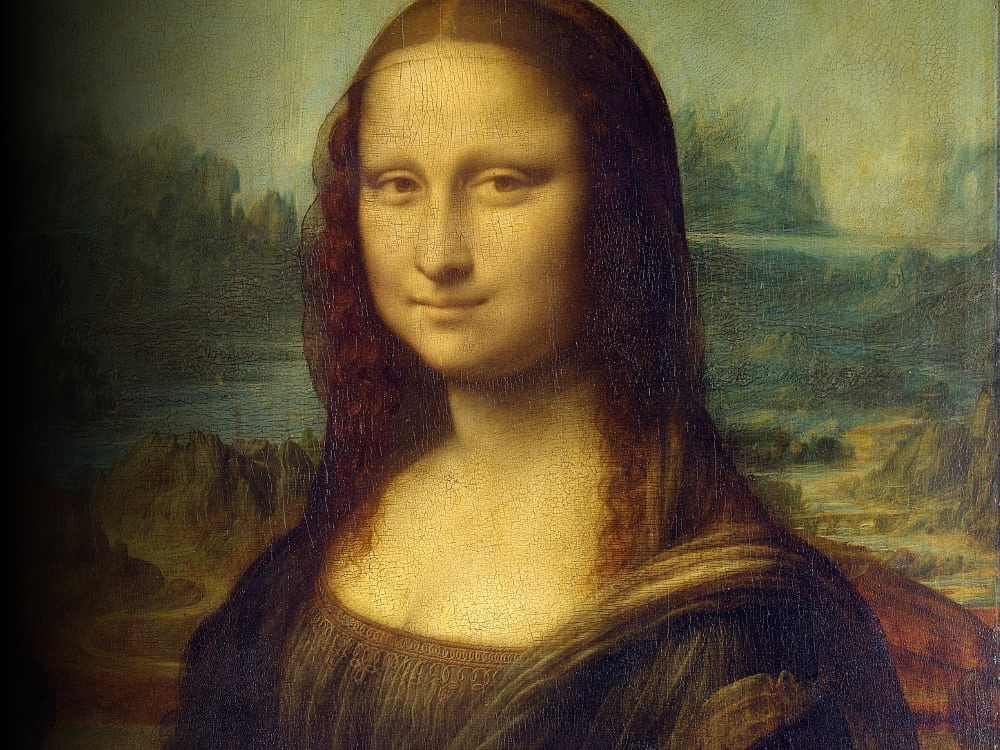
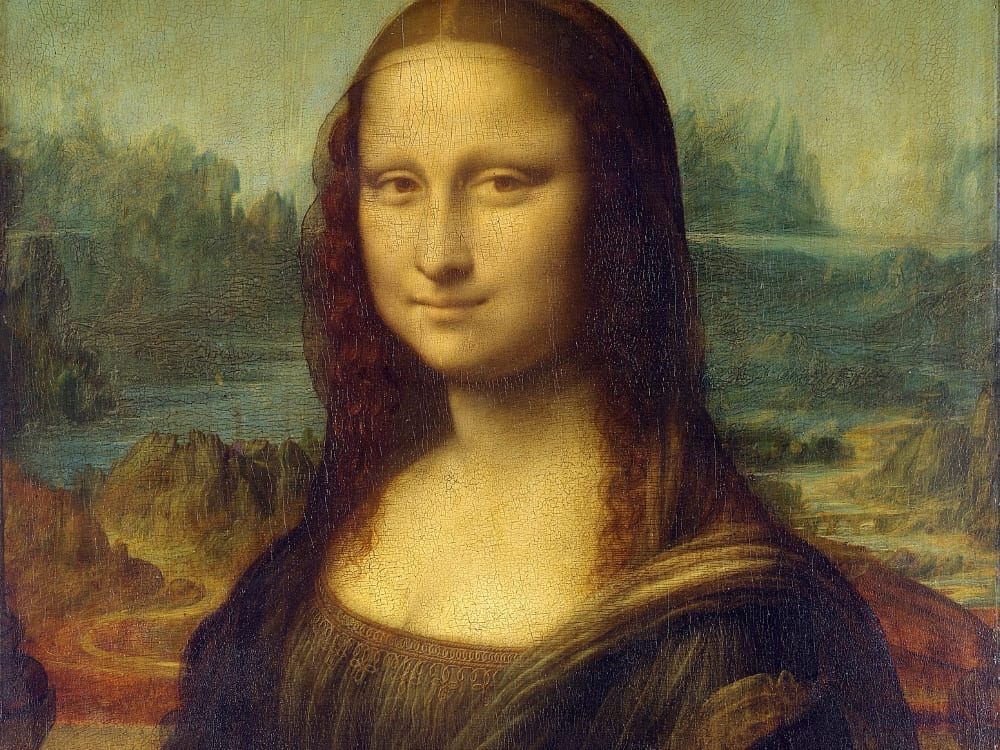
fix: some fixes

Changed region(s): [[0.0, 0.0, 0.279, 1.0]]

diff --git a/src/scss/sections/_hero.scss b/src/scss/sections/_hero.scss
@@ -114,13 +114,26 @@
         width: 100%;
     }
     &__images {
+        position: relative;
         width: 100%;
         height: 100%;
+        &::before {
+            content: "";
+            position: absolute;
+            top: 0;
+            left: 0;
+            width: 100%;
+            height: 100%;
+            background: linear-gradient(90deg, #000000 0%, rgba(0, 0, 0, 0.5) 16.19%, rgba(0, 0, 0, 0) 30.73%);
+        }
         @include media-breakpoint-down(xl) {
             width: 60%;
         }
         @include media-breakpoint-down(md) {
             width: 100%;
+            &::before {
+                display: none;
+            }
         }
     }
     &__images-item {
